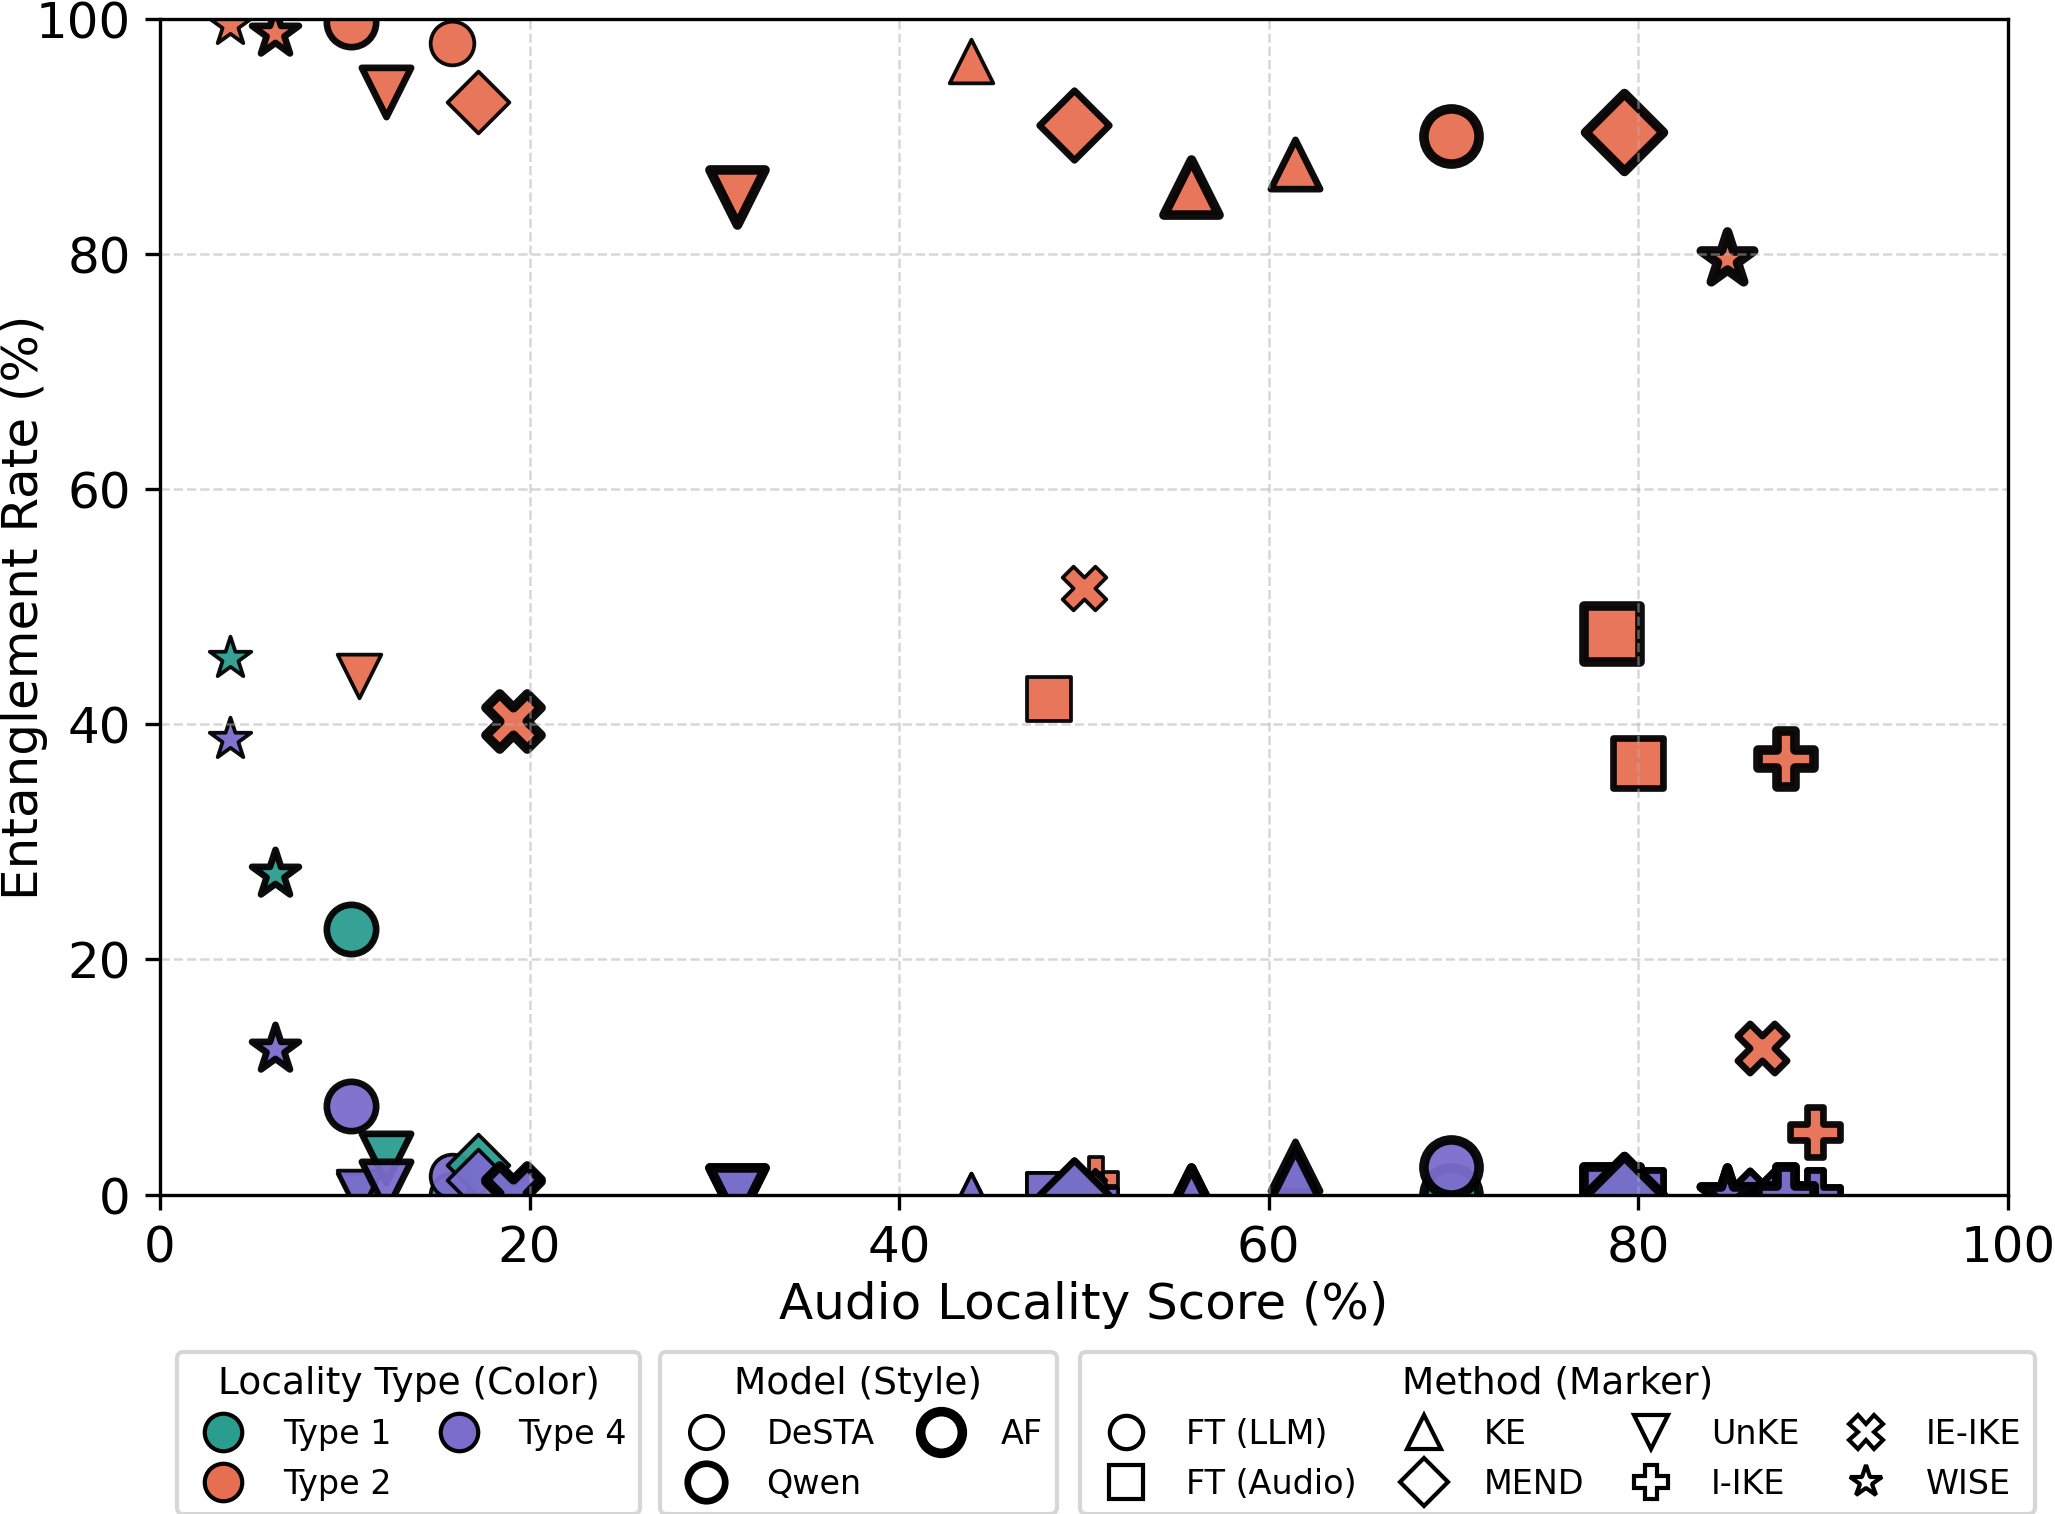
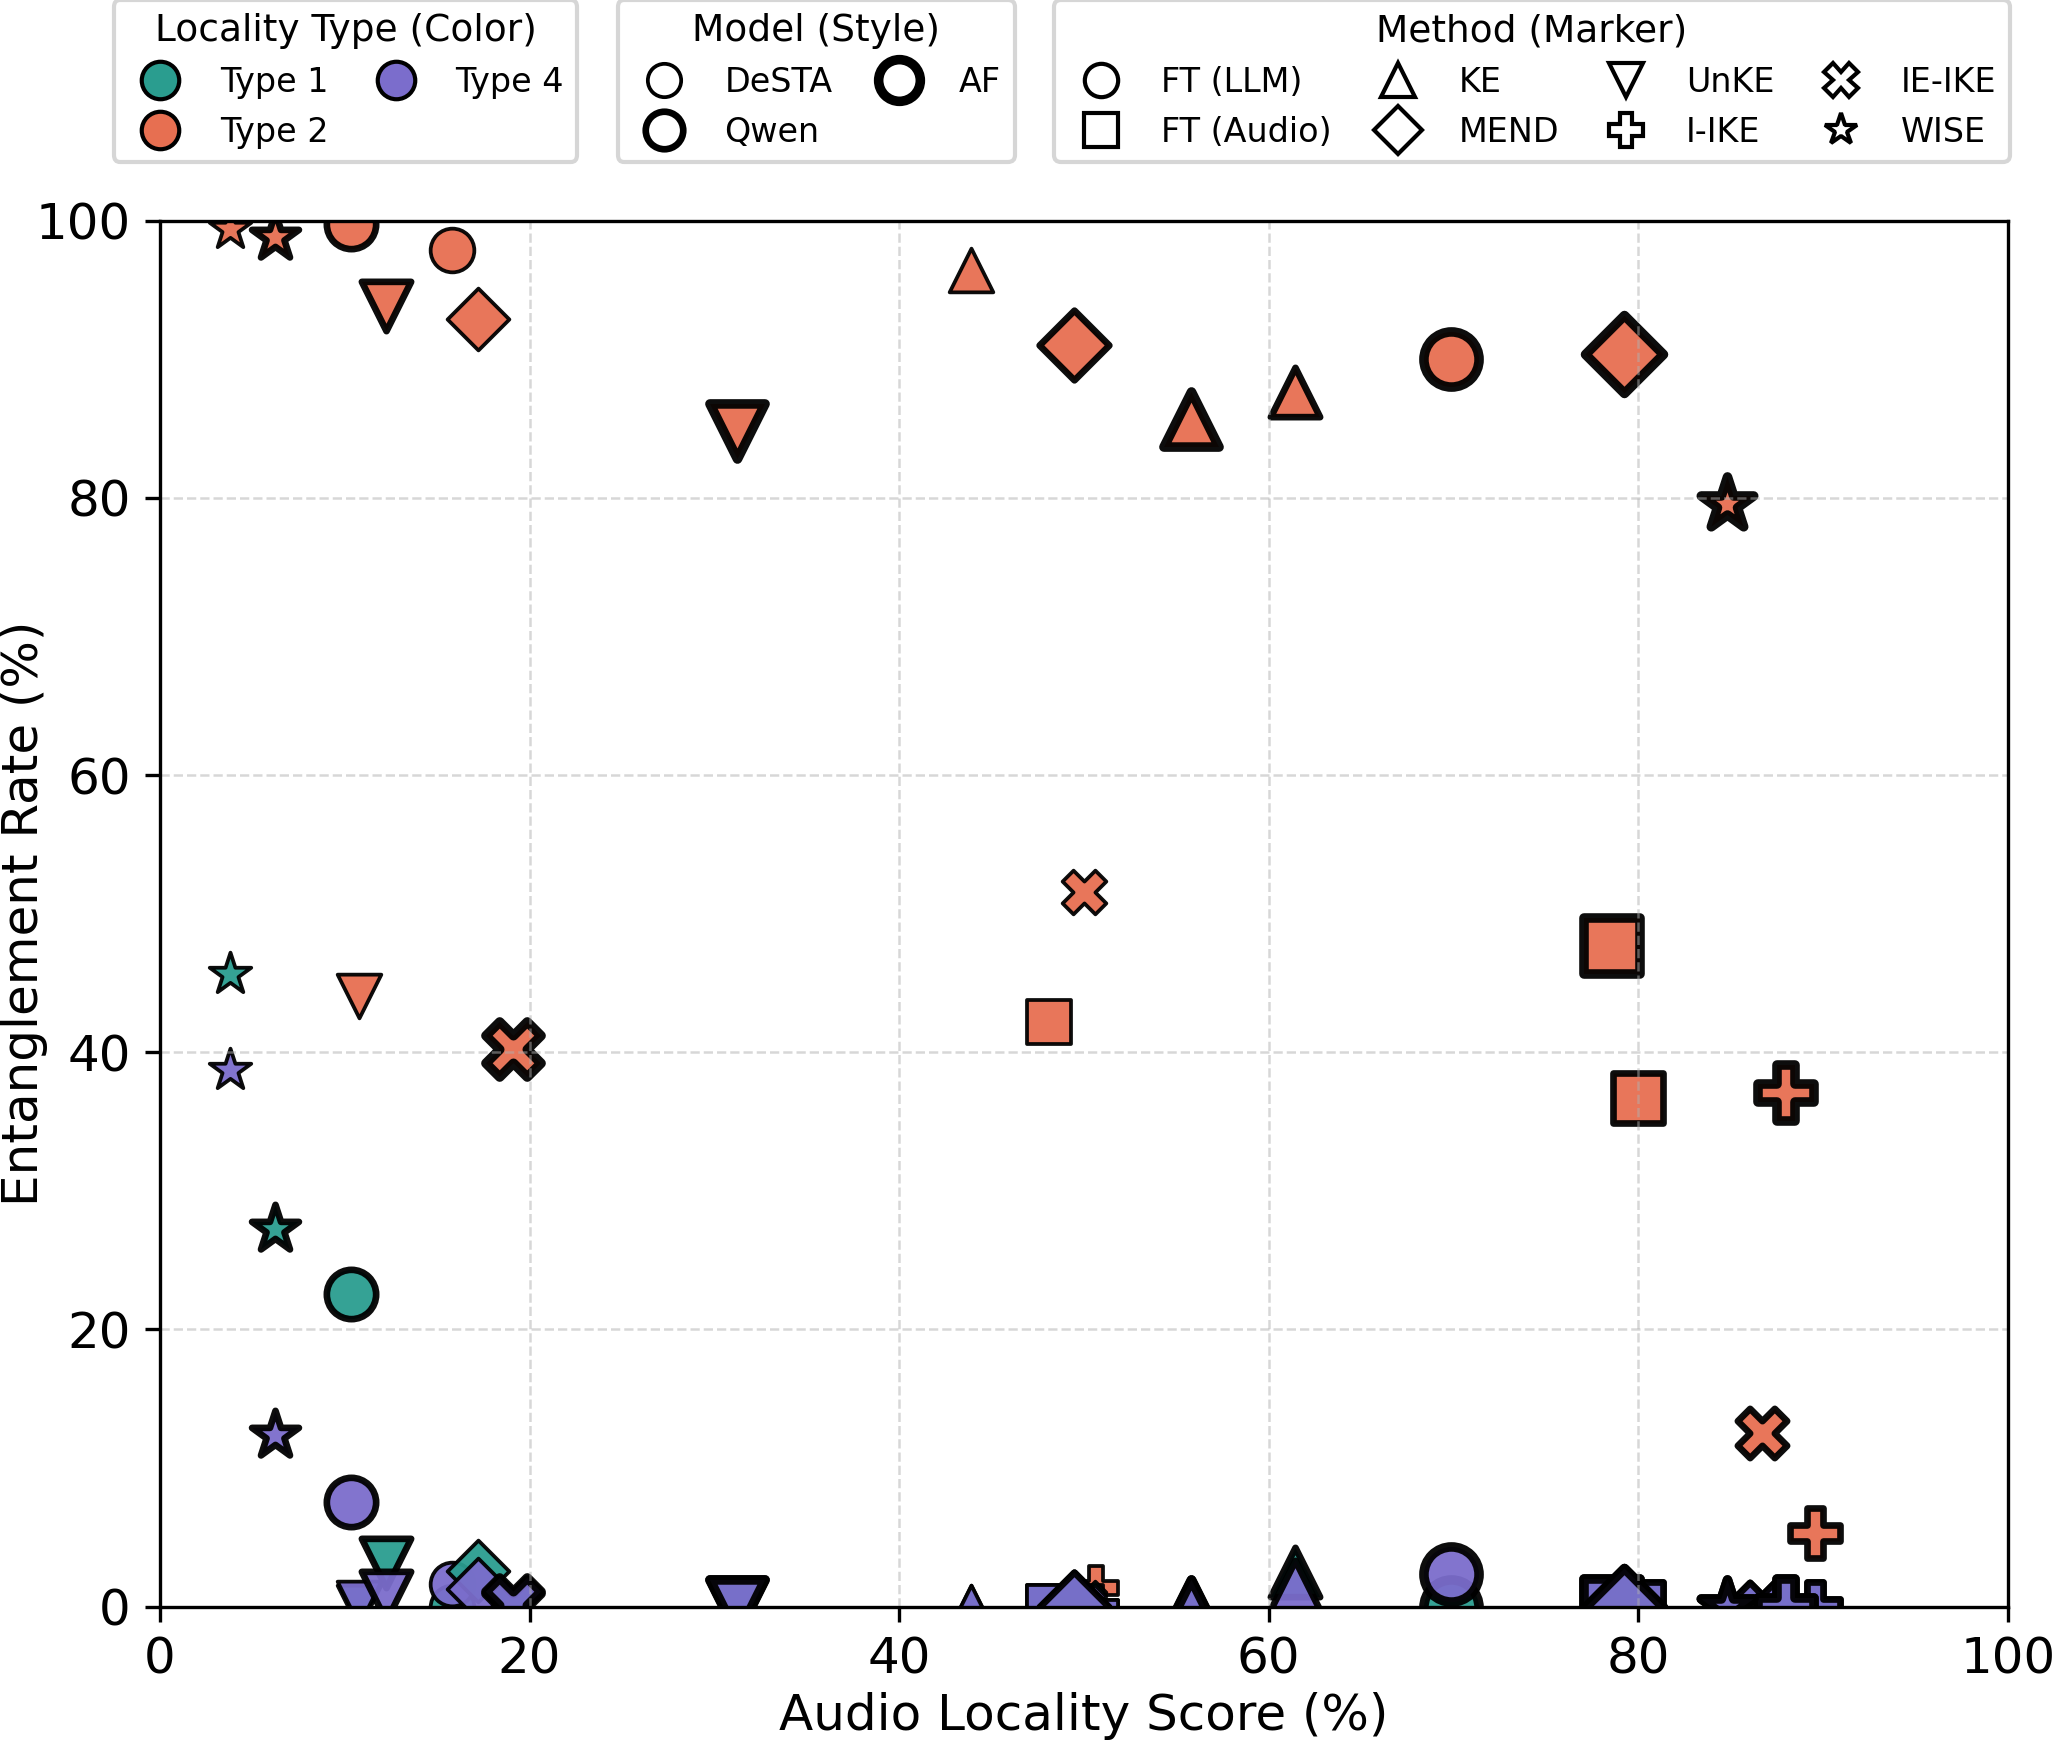
put legend in the top

diff --git a/model_outputs/paper_utils/plot_scripts/scatter_plot_audio_loc_entanglement.py b/model_outputs/paper_utils/plot_scripts/scatter_plot_audio_loc_entanglement.py
@@ -48,6 +48,8 @@ LEGEND_FONTSIZE = 8
 LEGEND_TITLE_FONTSIZE = 9
 LEGEND_COLUMNSPACING = 1.0
 LEGEND_METHOD_COLUMNSPACING = 1.0
+LEGEND_COMMON_Y = 0.80
+LEGEND_X_START = 0.07
 
 
 def parse_args():
@@ -411,7 +413,7 @@ def render_scatter(points, output_path, entanglement_types, annotate=False):
 		handles=type_handles,
 		title="Locality Type (Color)",
 		loc="lower left",
-		bbox_to_anchor=(0.10, 0.18),
+		bbox_to_anchor=(LEGEND_X_START, LEGEND_COMMON_Y),
 		frameon=True,
 		ncol=2, #max(1, len(type_handles)),
 		columnspacing=LEGEND_COLUMNSPACING,
@@ -423,7 +425,7 @@ def render_scatter(points, output_path, entanglement_types, annotate=False):
 		handles=model_handles,
 		title="Model (Style)",
 		loc="lower left",
-		bbox_to_anchor=(0.33, 0.18),
+		bbox_to_anchor=(LEGEND_X_START + 0.24, LEGEND_COMMON_Y),
 		frameon=True,
 		ncol=2,#max(1, len(model_handles)),
 		columnspacing=LEGEND_COLUMNSPACING,
@@ -435,7 +437,7 @@ def render_scatter(points, output_path, entanglement_types, annotate=False):
 		handles=method_handles,
 		title="Method (Marker)",
 		loc="lower left",
-		bbox_to_anchor=(0.53, 0.18),
+		bbox_to_anchor=(LEGEND_X_START + 0.448, LEGEND_COMMON_Y),
 		ncol=4,
 		columnspacing=LEGEND_METHOD_COLUMNSPACING,
 		frameon=True,
@@ -443,7 +445,7 @@ def render_scatter(points, output_path, entanglement_types, annotate=False):
 		title_fontsize=LEGEND_TITLE_FONTSIZE,
 	)
 
-	fig.subplots_adjust(left=0.10, right=0.98, top=0.90, bottom=0.34)
+	fig.subplots_adjust(left=0.10, right=0.98, top=0.78, bottom=0.12)
 
 	output_dir = os.path.dirname(os.path.abspath(output_path))
 	if output_dir and not os.path.exists(output_dir):
